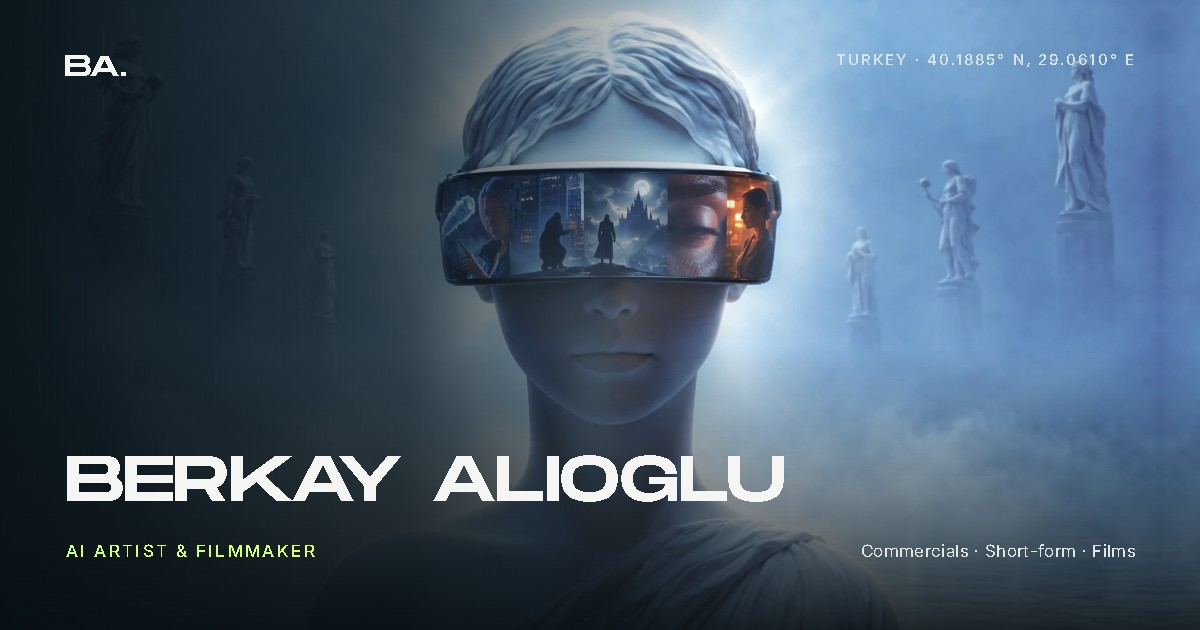
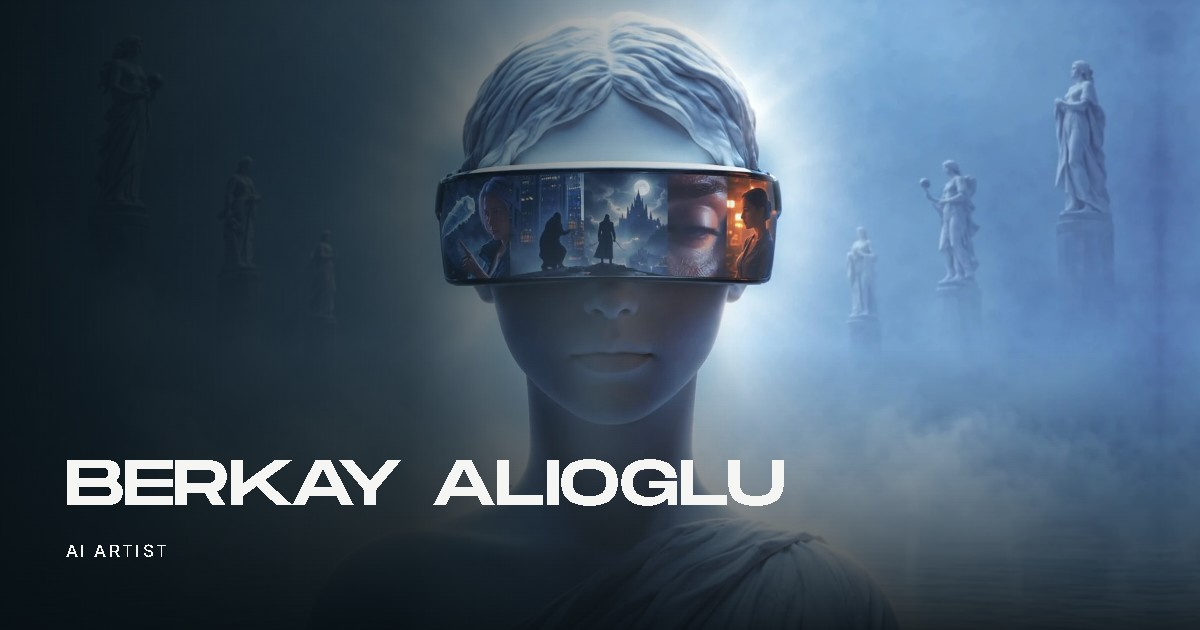
Share image: name and AI ARTIST only

diff --git a/index.html b/index.html
@@ -9,7 +9,7 @@
   <meta property="og:title" content="Berkay Alioglu — AI Artist & Filmmaker">
   <meta property="og:description" content="Human imagination. New possibilities. Explore commercials, short-form spots and films.">
   <meta property="og:url" content="https://berkayalioglu.com/">
-  <meta property="og:image" content="https://berkayalioglu.com/assets/share.jpg?v=2">
+  <meta property="og:image" content="https://berkayalioglu.com/assets/share.jpg?v=3">
   <meta property="og:image:width" content="1200">
   <meta property="og:image:height" content="630">
   <meta property="og:image:alt" content="Berkay Alioglu — AI artist and filmmaker">
